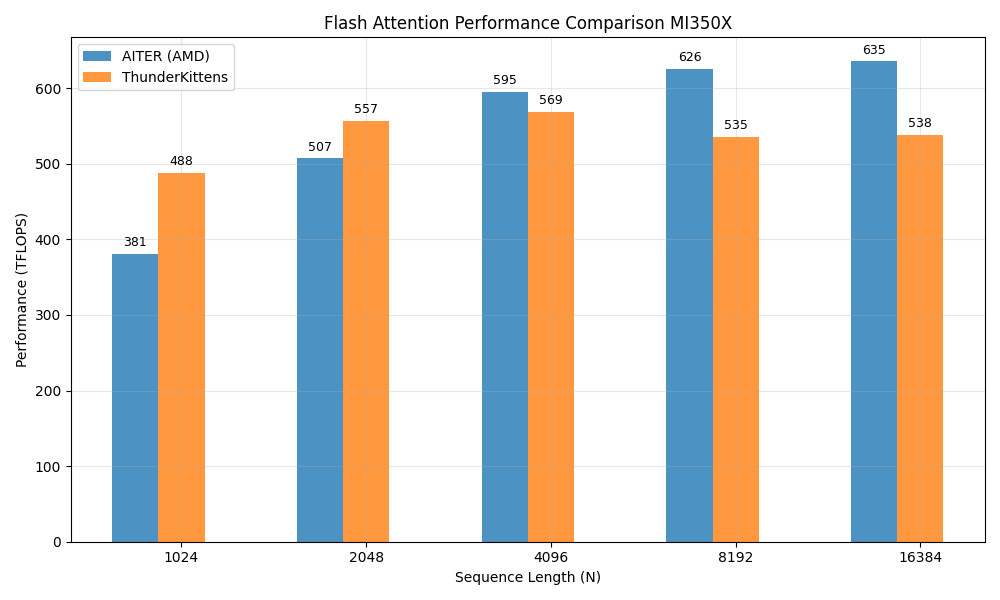
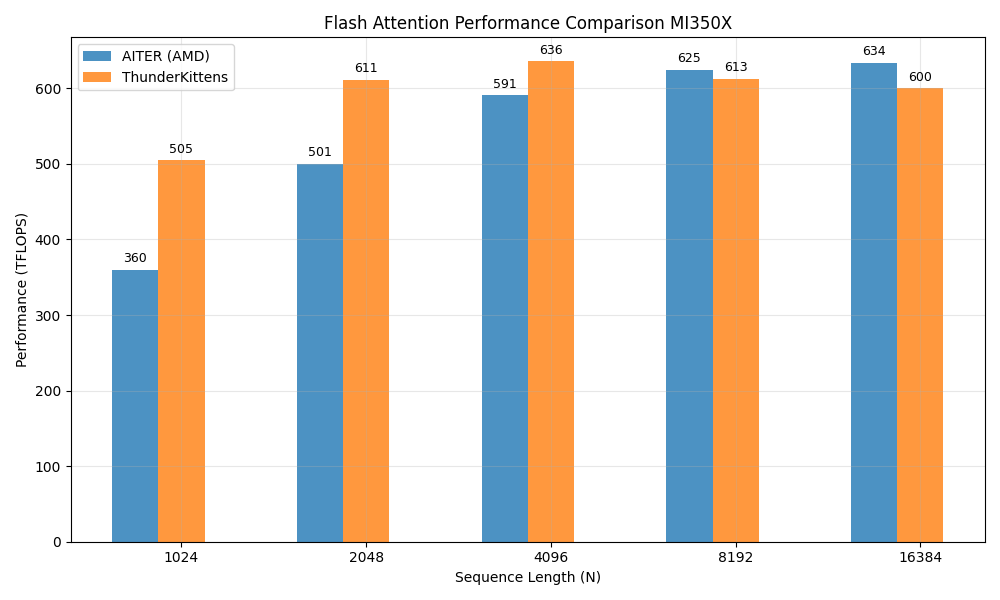
updated analysis for mi350

diff --git a/analysis/attn/mi350x/utils.cpp b/analysis/attn/mi350x/utils.cpp
@@ -352,7 +352,7 @@ __device__ static inline void swap_layout_and_transpose(rt<T2, _cols, _rows, typ
         #pragma unroll
         for (int j = 0; j < tile.width; j++) {
             #pragma unroll
-            for (int k = 0; k < tile.packed_per_thread; k++) {
+            for (int k = 0; k < tile.packed_per_tile; k++) {
                 result.tiles[j][i].data[k] = tile.tiles[i][j].data[k];
             }
         }
@@ -373,12 +373,13 @@ __device__ inline static void store_transposed(const GL &dst, const RT &src, con
 
     #pragma unroll
     for(int i = 0; i < src.height; i++) {
-        int row = src.tile_size_row*i + row_offset;
+        int global_col = src.tile_size_row * i;
         #pragma unroll
         for(int j = 0; j < src.width; j++) {
+            int row = src.tile_size_col * j + row_offset;
             #pragma unroll
             for (int jj = 0; jj < 4; jj++) {
-                int col = src.tile_size_col*j + jj * 8 + col_offset * 4;
+                int col = global_col + jj * 8 + col_offset * 4;
 
                 dst_ptr[row*row_stride + col + 0] = base_types::convertor<U, T>::convert(src.tiles[i][j].data[jj * 2].x);
                 dst_ptr[row*row_stride + col + 1] = base_types::convertor<U, T>::convert(src.tiles[i][j].data[jj * 2].y);

diff --git a/analysis/attn/mi350x/kernel_16384.cpp b/analysis/attn/mi350x/kernel_16384.cpp
@@ -7,9 +7,9 @@ constexpr int ATTN_H = 16; // number of heads
 constexpr int ATTN_N = 16384; // sequence length
 constexpr int ATTN_D = 64; // dimension
 constexpr int N_STEP = 256;
-constexpr int BLOCK_SIZE = 32; // block size
+constexpr int BLOCK_SIZE = 64; // block size
 
-#define NUM_WARPS 16
+#define NUM_WARPS 8
 #define NUM_THREADS (kittens::WARP_THREADS * NUM_WARPS)
 
 using namespace kittens;
@@ -64,7 +64,7 @@ __global__ void attend_ker(const attn_globals<D> g) {
     const int head_idx = blockIdx.y;
     const int block_tile_idx = blockIdx.z;
     const int tile_idx = block_tile_idx * NUM_WARPS + warpid();
-    const int stagger = warpid() / 8;
+    const int stagger = warpid() / 4;
 
     const int num_tiles = ATTN_N / N_STEP;
     const int num_sub_tiles = N_STEP / BLOCK_SIZE;
@@ -119,7 +119,6 @@ __global__ void attend_ker(const attn_globals<D> g) {
 
 
     for (int j = 0; j < num_tiles - 1; j++, tic^=1, toc^=1) {
-
 
         load_global_to_shared_direct_with_swizzled_offsets<1, false, st_bf<N_STEP, ATTN_D>, _gl_QKVO, coord<st_bf<N_STEP, ATTN_D>>, NUM_THREADS>(
             g.Kg, {batch_idx, j + 1, head_idx, 0}, k_smem[toc], swizzled_offsets_K);

diff --git a/analysis/attn/mi350x/kernel_1024.cpp b/analysis/attn/mi350x/kernel_1024.cpp
@@ -7,9 +7,9 @@ constexpr int ATTN_H = 16; // number of heads
 constexpr int ATTN_N = 1024; // sequence length
 constexpr int ATTN_D = 64; // dimension
 constexpr int N_STEP = 256;
-constexpr int BLOCK_SIZE = 32; // block size
+constexpr int BLOCK_SIZE = 64; // block size
 
-#define NUM_WARPS 16
+#define NUM_WARPS 8
 #define NUM_THREADS (kittens::WARP_THREADS * NUM_WARPS)
 
 using namespace kittens;
@@ -64,7 +64,7 @@ __global__ void attend_ker(const attn_globals<D> g) {
     const int head_idx = blockIdx.y;
     const int block_tile_idx = blockIdx.z;
     const int tile_idx = block_tile_idx * NUM_WARPS + warpid();
-    const int stagger = warpid() / 8;
+    const int stagger = warpid() / 4;
 
     const int num_tiles = ATTN_N / N_STEP;
     const int num_sub_tiles = N_STEP / BLOCK_SIZE;
@@ -119,7 +119,6 @@ __global__ void attend_ker(const attn_globals<D> g) {
 
 
     for (int j = 0; j < num_tiles - 1; j++, tic^=1, toc^=1) {
-
 
         load_global_to_shared_direct_with_swizzled_offsets<1, false, st_bf<N_STEP, ATTN_D>, _gl_QKVO, coord<st_bf<N_STEP, ATTN_D>>, NUM_THREADS>(
             g.Kg, {batch_idx, j + 1, head_idx, 0}, k_smem[toc], swizzled_offsets_K);

diff --git a/analysis/attn/mi350x/kernel_2048.cpp b/analysis/attn/mi350x/kernel_2048.cpp
@@ -7,9 +7,9 @@ constexpr int ATTN_H = 16; // number of heads
 constexpr int ATTN_N = 2048; // sequence length
 constexpr int ATTN_D = 64; // dimension
 constexpr int N_STEP = 256;
-constexpr int BLOCK_SIZE = 32; // block size
+constexpr int BLOCK_SIZE = 64; // block size
 
-#define NUM_WARPS 16
+#define NUM_WARPS 8
 #define NUM_THREADS (kittens::WARP_THREADS * NUM_WARPS)
 
 using namespace kittens;
@@ -64,7 +64,7 @@ __global__ void attend_ker(const attn_globals<D> g) {
     const int head_idx = blockIdx.y;
     const int block_tile_idx = blockIdx.z;
     const int tile_idx = block_tile_idx * NUM_WARPS + warpid();
-    const int stagger = warpid() / 8;
+    const int stagger = warpid() / 4;
 
     const int num_tiles = ATTN_N / N_STEP;
     const int num_sub_tiles = N_STEP / BLOCK_SIZE;
@@ -119,7 +119,6 @@ __global__ void attend_ker(const attn_globals<D> g) {
 
 
     for (int j = 0; j < num_tiles - 1; j++, tic^=1, toc^=1) {
-
 
         load_global_to_shared_direct_with_swizzled_offsets<1, false, st_bf<N_STEP, ATTN_D>, _gl_QKVO, coord<st_bf<N_STEP, ATTN_D>>, NUM_THREADS>(
             g.Kg, {batch_idx, j + 1, head_idx, 0}, k_smem[toc], swizzled_offsets_K);

diff --git a/analysis/attn/mi350x/kernel_4096.cpp b/analysis/attn/mi350x/kernel_4096.cpp
@@ -7,9 +7,9 @@ constexpr int ATTN_H = 16; // number of heads
 constexpr int ATTN_N = 4096; // sequence length
 constexpr int ATTN_D = 64; // dimension
 constexpr int N_STEP = 256;
-constexpr int BLOCK_SIZE = 32; // block size
+constexpr int BLOCK_SIZE = 64; // block size
 
-#define NUM_WARPS 16
+#define NUM_WARPS 8
 #define NUM_THREADS (kittens::WARP_THREADS * NUM_WARPS)
 
 using namespace kittens;
@@ -64,7 +64,7 @@ __global__ void attend_ker(const attn_globals<D> g) {
     const int head_idx = blockIdx.y;
     const int block_tile_idx = blockIdx.z;
     const int tile_idx = block_tile_idx * NUM_WARPS + warpid();
-    const int stagger = warpid() / 8;
+    const int stagger = warpid() / 4;
 
     const int num_tiles = ATTN_N / N_STEP;
     const int num_sub_tiles = N_STEP / BLOCK_SIZE;
@@ -119,7 +119,6 @@ __global__ void attend_ker(const attn_globals<D> g) {
 
 
     for (int j = 0; j < num_tiles - 1; j++, tic^=1, toc^=1) {
-
 
         load_global_to_shared_direct_with_swizzled_offsets<1, false, st_bf<N_STEP, ATTN_D>, _gl_QKVO, coord<st_bf<N_STEP, ATTN_D>>, NUM_THREADS>(
             g.Kg, {batch_idx, j + 1, head_idx, 0}, k_smem[toc], swizzled_offsets_K);

diff --git a/analysis/attn/mi350x/kernel_8192.cpp b/analysis/attn/mi350x/kernel_8192.cpp
@@ -7,9 +7,9 @@ constexpr int ATTN_H = 16; // number of heads
 constexpr int ATTN_N = 8192; // sequence length
 constexpr int ATTN_D = 64; // dimension
 constexpr int N_STEP = 256;
-constexpr int BLOCK_SIZE = 32; // block size
+constexpr int BLOCK_SIZE = 64; // block size
 
-#define NUM_WARPS 16
+#define NUM_WARPS 8
 #define NUM_THREADS (kittens::WARP_THREADS * NUM_WARPS)
 
 using namespace kittens;
@@ -64,7 +64,7 @@ __global__ void attend_ker(const attn_globals<D> g) {
     const int head_idx = blockIdx.y;
     const int block_tile_idx = blockIdx.z;
     const int tile_idx = block_tile_idx * NUM_WARPS + warpid();
-    const int stagger = warpid() / 8;
+    const int stagger = warpid() / 4;
 
     const int num_tiles = ATTN_N / N_STEP;
     const int num_sub_tiles = N_STEP / BLOCK_SIZE;
@@ -119,7 +119,6 @@ __global__ void attend_ker(const attn_globals<D> g) {
 
 
     for (int j = 0; j < num_tiles - 1; j++, tic^=1, toc^=1) {
-
 
         load_global_to_shared_direct_with_swizzled_offsets<1, false, st_bf<N_STEP, ATTN_D>, _gl_QKVO, coord<st_bf<N_STEP, ATTN_D>>, NUM_THREADS>(
             g.Kg, {batch_idx, j + 1, head_idx, 0}, k_smem[toc], swizzled_offsets_K);
